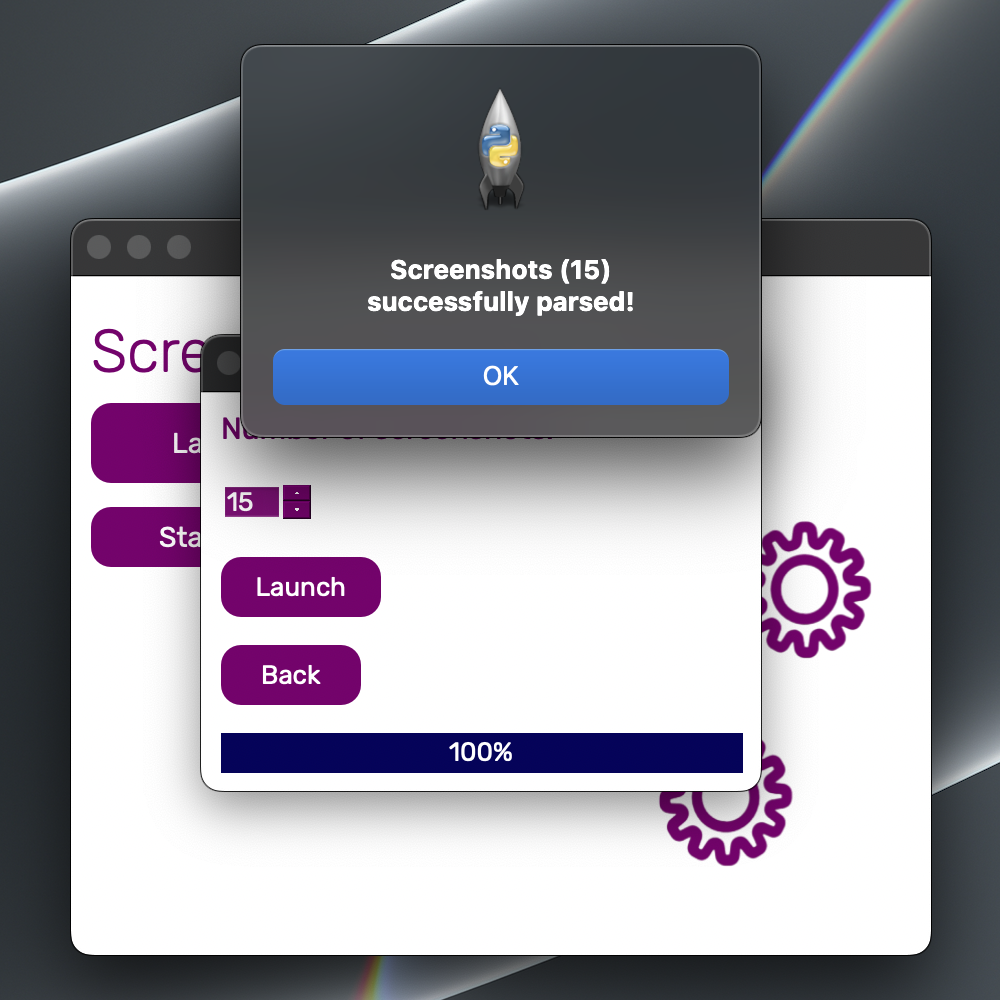
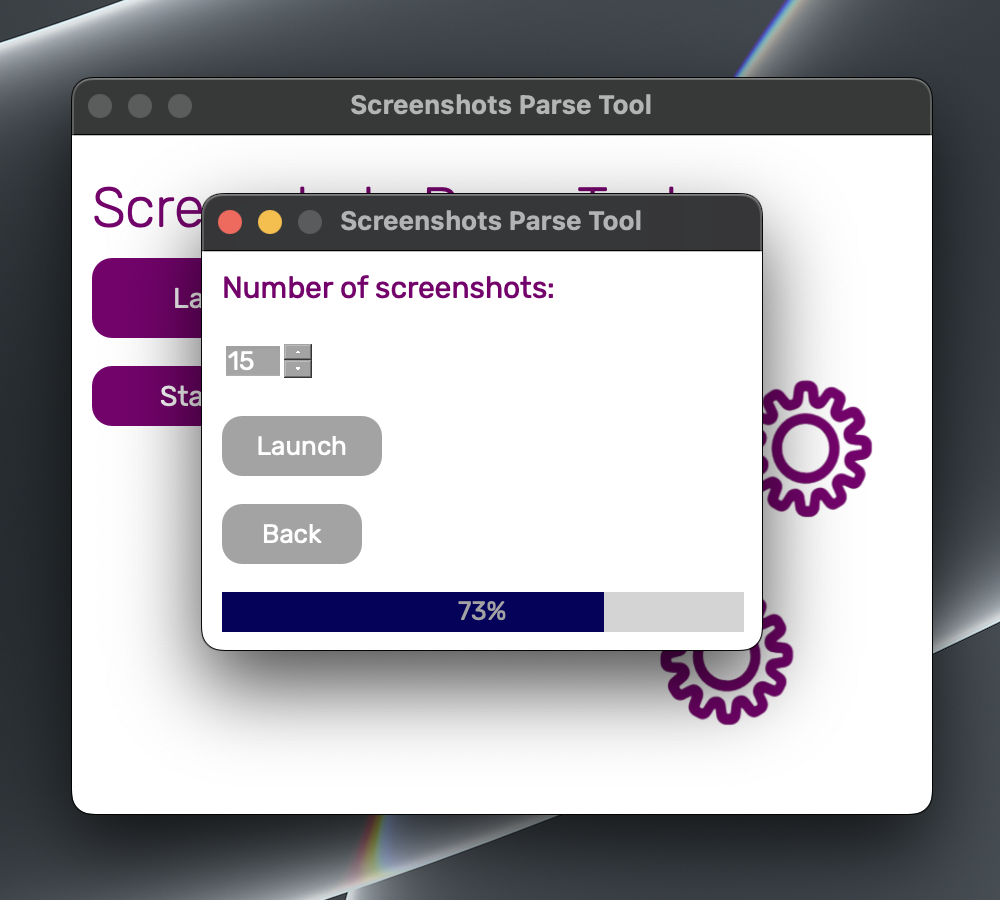
v0.11.7

diff --git a/ScreenshotsParseTool/scripts/menu.py b/ScreenshotsParseTool/scripts/menu.py
@@ -48,6 +48,9 @@ class MainWindow(QMainWindow):
                 self.internet_error_popup = QMessageBox(self)
                 self.internet_error_popup.setWindowTitle('Internet error')
                 self.internet_error_popup.setIconPixmap(QPixmap(self.path + '/images/logo.png'))
+                self.internet_error_popup.setStyleSheet('QMessageBox {\n'
+                                                        'background-color: white;\n'
+                                                        '}')
                 self.internet_error_popup.move(400, 300)
                 self.internet_error_popup.setIcon(QMessageBox.Icon.Warning)
                 self.internet_error_popup.setText('Check your internet connection or disable VPN.')
@@ -64,6 +67,9 @@ class MainWindow(QMainWindow):
             self.stats_popup = QMessageBox(self)
             self.stats_popup.setWindowTitle('Statistics')
             self.stats_popup.setIconPixmap(QPixmap(self.path + '/images/logo.png'))
+            self.stats_popup.setStyleSheet('QMessageBox {\n'
+                                            'background-color: white;\n'
+                                            '}')
             self.stats_popup.move(400, 300)
             self.stats_popup.setIcon(QMessageBox.Icon.Information)
             self.stats_popup.setText('Screenshots parsed: ' + str(self.count[0]) + '\nLast parse: ' + self.date[0])
@@ -74,6 +80,9 @@ class MainWindow(QMainWindow):
             self.stats_popup = QMessageBox(self)
             self.stats_popup.setWindowTitle('Statistics')
             self.stats_popup.setIconPixmap(QPixmap(self.path + '/images/logo.png'))
+            self.stats_popup.setStyleSheet('QMessageBox {\n'
+                                            'background-color: white;\n'
+                                            '}')
             self.stats_popup.move(400, 300)
             self.stats_popup.setIcon(QMessageBox.Icon.Information)
             self.stats_popup.setText('No data yet.')
@@ -113,11 +122,15 @@ class MainWindow(QMainWindow):
         self.terms_popup = QMessageBox(self)
         self.terms_popup.setWindowTitle('Terms of Use')
         self.terms_popup.setIconPixmap(QPixmap(self.path + '/images/logo.png'))
+        self.terms_popup.setStyleSheet('QMessageBox {\n'
+                                        'background-color: white;\n'
+                                        '}')
         self.terms_popup.move(400, 300)
         self.terms_popup.setIcon(QMessageBox.Icon.Warning)
         self.terms_popup.setText('DISCLAIMER\n\nIt is forbidden to use this tool for illegal or malicious purposes.\nDeveloper (Lao) is not responsible for the unethical use of this tool by other users.')
         self.terms_popup.setDetailedText('Screenshots Parse Tool\nLicensed under MIT')
-        self.agreeButton = self.terms_popup.addButton('Agree', QMessageBox.ButtonRole.ActionRole)
+        self.agreeButton = self.terms_popup.addButton('Agree', QMessageBox.ButtonRole.AcceptRole)
+        self.terms_popup.addButton(QMessageBox.StandardButton.Cancel)
         self.terms_popup.setDefaultButton(self.agreeButton)
         self.terms_popup.exec()
         if self.terms_popup.clickedButton() == self.agreeButton:

diff --git a/ScreenshotsParseTool/scripts/ui_startparser.py b/ScreenshotsParseTool/scripts/ui_startparser.py
@@ -31,6 +31,7 @@ class Ui_Dialog(object):
         self.text.setObjectName("text")
         self.verticalLayout.addWidget(self.text, 0, QtCore.Qt.AlignmentFlag.AlignLeft|QtCore.Qt.AlignmentFlag.AlignTop)
         self.spinBox = QtWidgets.QSpinBox(parent=self.verticalLayoutWidget)
+        self.spinBox.setEnabled(True)
         sizePolicy = QtWidgets.QSizePolicy(QtWidgets.QSizePolicy.Policy.Fixed, QtWidgets.QSizePolicy.Policy.Fixed)
         sizePolicy.setHorizontalStretch(0)
         sizePolicy.setVerticalStretch(0)
@@ -47,6 +48,10 @@ class Ui_Dialog(object):
 "\n"
 "QSpinBox::up-button:pressed, QSpinBox::down-button:pressed {\n"
 "    background-color: #050359;\n"
+"}\n"
+"\n"
+"QSpinBox:disabled {\n"
+"    background-color: #A3A3A3;\n"
 "}")
         self.spinBox.setSuffix("")
         self.spinBox.setPrefix("")
@@ -55,6 +60,7 @@ class Ui_Dialog(object):
         self.spinBox.setObjectName("spinBox")
         self.verticalLayout.addWidget(self.spinBox, 0, QtCore.Qt.AlignmentFlag.AlignLeft|QtCore.Qt.AlignmentFlag.AlignTop)
         self.button1 = QtWidgets.QPushButton(parent=self.verticalLayoutWidget)
+        self.button1.setEnabled(True)
         sizePolicy = QtWidgets.QSizePolicy(QtWidgets.QSizePolicy.Policy.Fixed, QtWidgets.QSizePolicy.Policy.Fixed)
         sizePolicy.setHorizontalStretch(0)
         sizePolicy.setVerticalStretch(0)
@@ -73,10 +79,15 @@ class Ui_Dialog(object):
 "\n"
 "QPushButton:pressed {\n"
 "    background-color: #050359;\n"
+"}\n"
+"\n"
+"QPushButton:disabled {\n"
+"    background-color: #A3A3A3;\n"
 "}")
         self.button1.setObjectName("button1")
         self.verticalLayout.addWidget(self.button1, 0, QtCore.Qt.AlignmentFlag.AlignLeft|QtCore.Qt.AlignmentFlag.AlignTop)
         self.button2 = QtWidgets.QPushButton(parent=self.verticalLayoutWidget)
+        self.button2.setEnabled(True)
         self.button2.setMinimumSize(QtCore.QSize(70, 30))
         font = QtGui.QFont()
         font.setFamily("Rubik")
@@ -90,6 +101,10 @@ class Ui_Dialog(object):
 "\n"
 "QPushButton:pressed {\n"
 "    background-color: #050359;\n"
+"}\n"
+"\n"
+"QPushButton:disabled {\n"
+"    background-color: #A3A3A3;\n"
 "}")
         self.button2.setObjectName("button2")
         self.verticalLayout.addWidget(self.button2, 0, QtCore.Qt.AlignmentFlag.AlignLeft|QtCore.Qt.AlignmentFlag.AlignTop)
@@ -102,7 +117,7 @@ class Ui_Dialog(object):
 "    border-radius: 0px;\n"
 "    background-color: #D4D4D4;\n"
 "    text-align: center;\n"
-"    color: white;\n"
+"    color: #A3A3A3;\n"
 "}\n"
 "\n"
 "QProgressBar::chunk {\n"

diff --git a/ScreenshotsParseTool/scripts/startparser.py b/ScreenshotsParseTool/scripts/startparser.py
@@ -36,6 +36,9 @@ class StartParserWindow(QDialog):
         self.screens_count = self.UI.spinBox.value()
         self.UI.progressBar.setMinimum(0)
         self.UI.progressBar.setMaximum(self.screens_count)
+        self.UI.button1.setEnabled(False)
+        self.UI.button2.setEnabled(False)
+        self.UI.spinBox.setEnabled(False)
         for screens in range(self.screens_count):
             downloader()
             self.UI.progressBar.setValue(screens + 1)
@@ -43,6 +46,9 @@ class StartParserWindow(QDialog):
         self.finish_popup = QMessageBox(self)
         self.finish_popup.setWindowTitle('Parsing finished')
         self.finish_popup.setIconPixmap(QPixmap(self.path + '/images/logo.png'))
+        self.finish_popup.setStyleSheet('QMessageBox {\n'
+                                        'background-color: white;\n'
+                                        '}')
         self.finish_popup.move(400, 300)
         self.finish_popup.setIcon(QMessageBox.Icon.Information)
         self.finish_popup.setText('Screenshots (' + str(self.screens_count) + ') successfully parsed!')
@@ -58,6 +64,9 @@ class StartParserWindow(QDialog):
                 self.db.update_stats(screens=self.screens, last_parse=self.date)
             else:
                 self.db.add_stats(screens=self.screens_count, last_parse=self.date)
+        self.UI.button1.setEnabled(True)
+        self.UI.button2.setEnabled(True)
+        self.UI.spinBox.setEnabled(True)
         self.UI.progressBar.setValue(0)
 
     def back(self):

diff --git a/ScreenshotsParseTool/scripts/ui_menu.py b/ScreenshotsParseTool/scripts/ui_menu.py
@@ -40,7 +40,7 @@ class Ui_MainWindow(object):
         self.text = QtWidgets.QLabel(parent=self.verticalLayoutWidget)
         font = QtGui.QFont()
         font.setFamily("Rubik")
-        font.setPointSize(30)
+        font.setPointSize(28)
         font.setBold(False)
         font.setWeight(50)
         self.text.setFont(font)

diff --git a/README.md b/README.md
@@ -47,7 +47,7 @@ spt
 ```
 
 ### Windows
-<b>On Windows you need to <u>run cmd as administrator</u>, otherwise you won't be able to correctly configure SPT.</b>
+First of all, you need to **run cmd as administrator**, otherwise you won't be able to correctly configure SPT.
 ```
 cd %userprofile%
 git clone https://github.com/codelao/Screenshots-Parse-Tool.git

diff --git a/CHANGELOG.md b/CHANGELOG.md
@@ -1,3 +1,12 @@
+# 0.11.7
+*2023-07-20*
+
+### Minor improvements
+### Fixed
+- Bug with *'Parsing finished'* popup's background
+- Bug with *'Terms of Use'* popup agreement
+
+
 # 0.11.6
 *2023-07-18*
 
